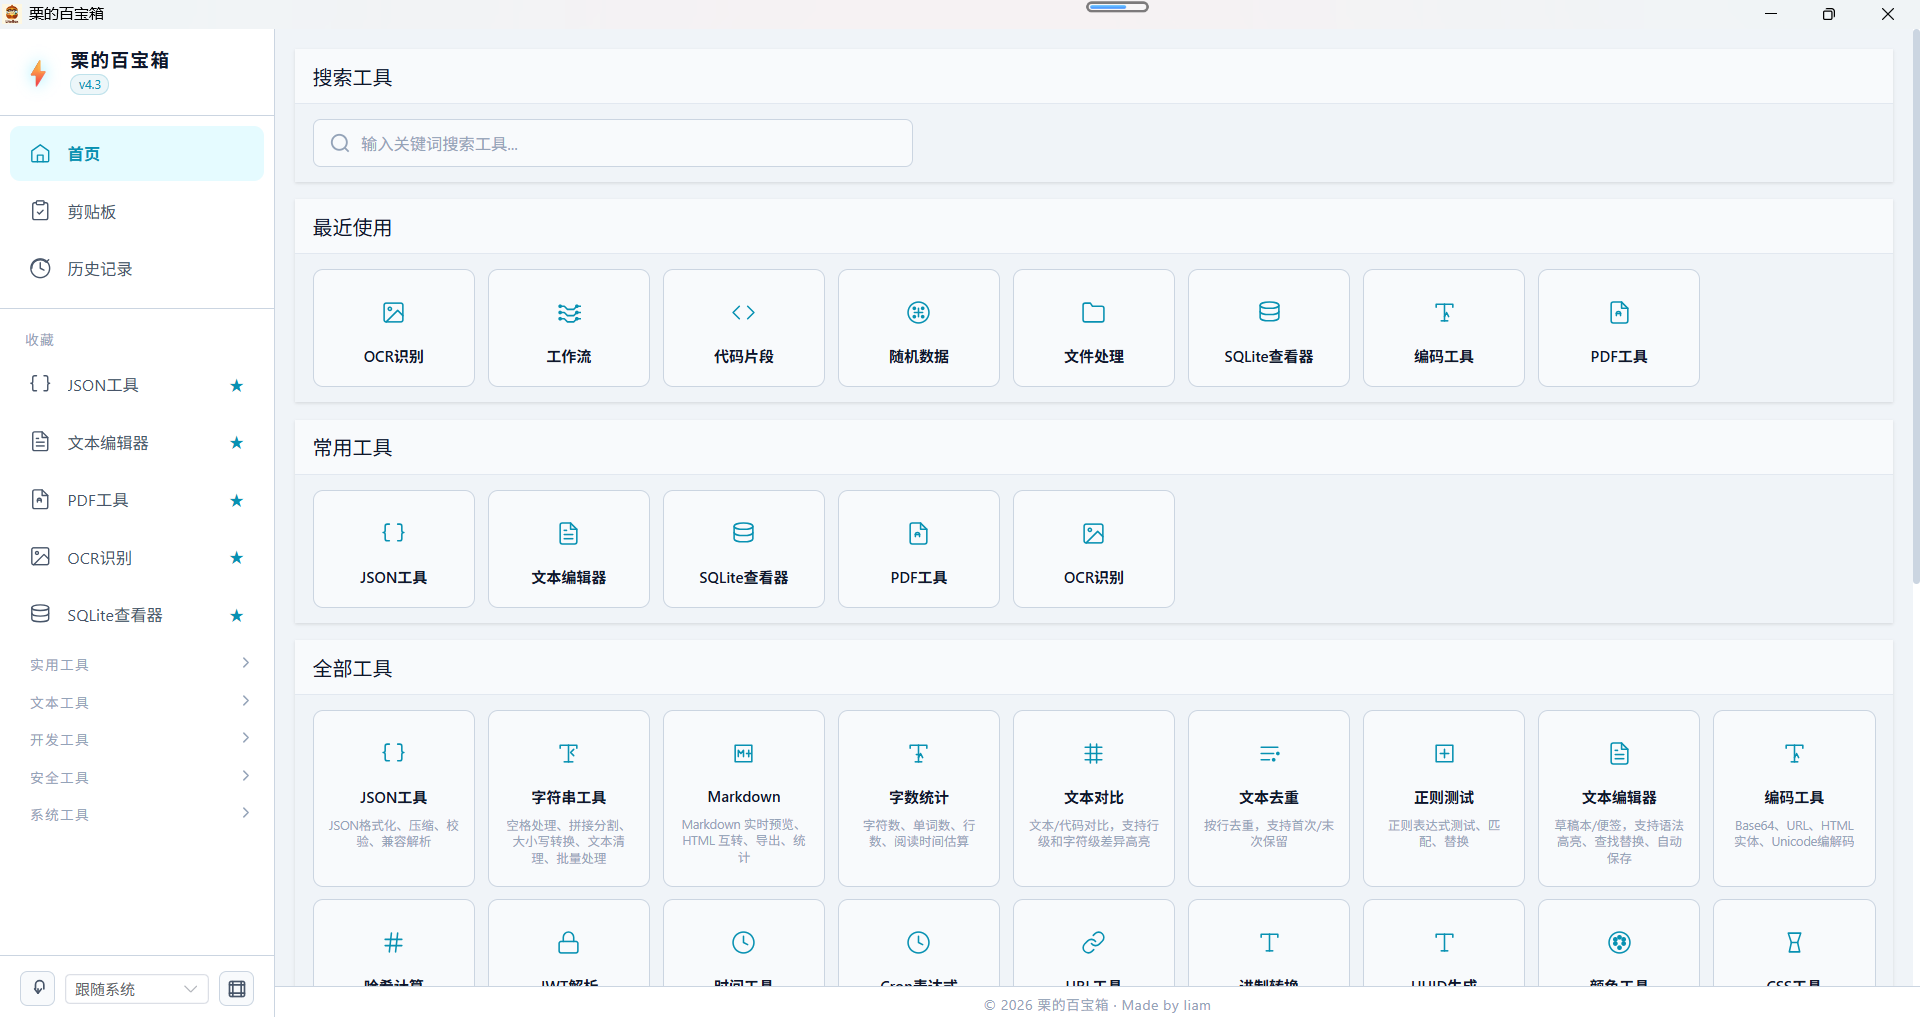
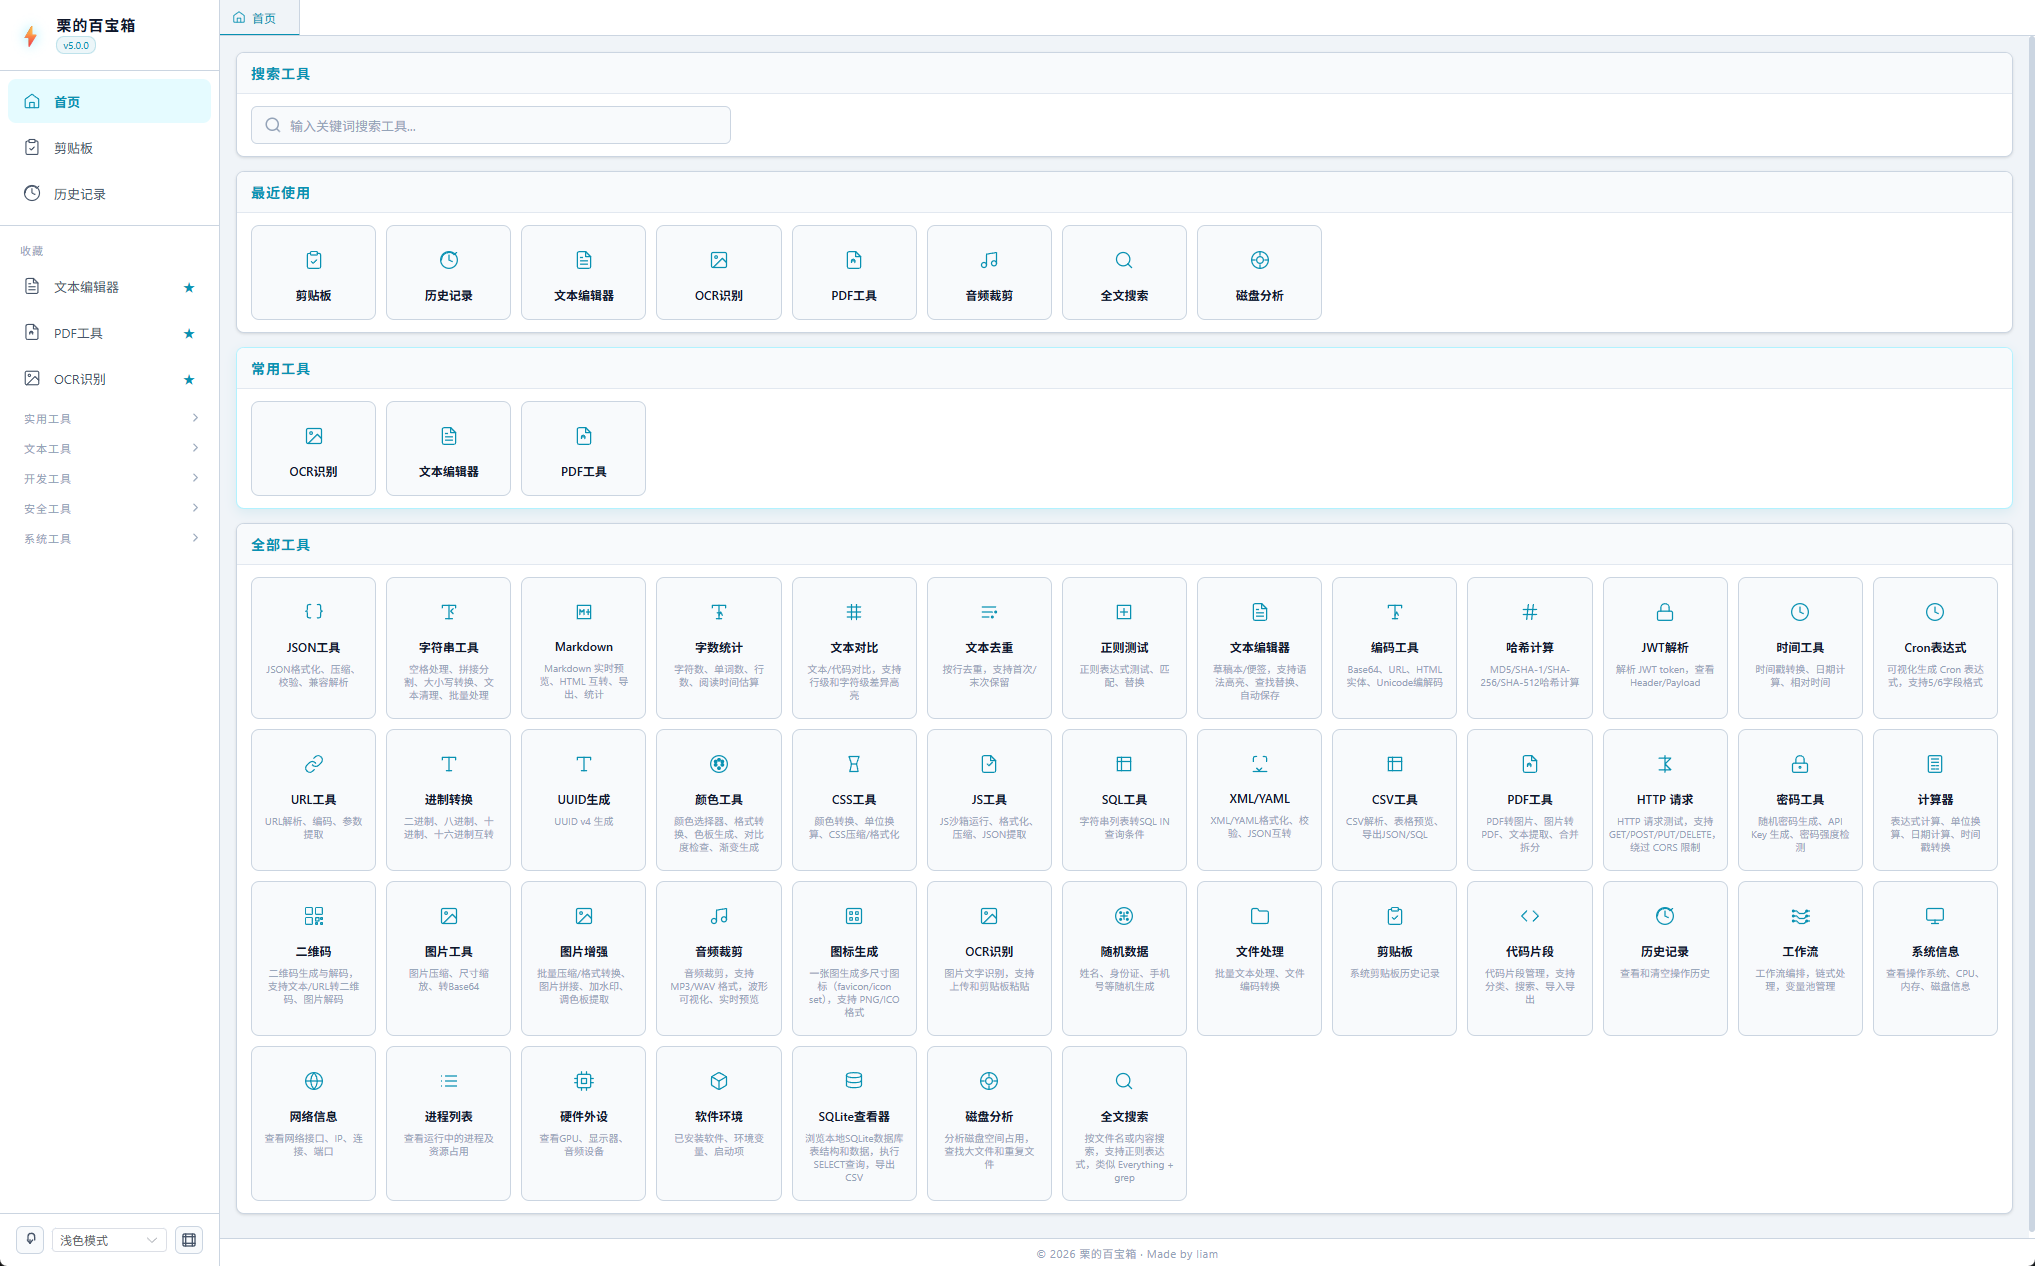
chore(release): bump version to 5.0.0 and update docs
- 更新README.md中的工具列表和版本日志
- 新增RELEASE_NOTES.md编写v5.0完整发布说明
- 更新两张截图预览文件
- 同步更新package.json版本号

diff --git a/RELEASE_NOTES.md b/RELEASE_NOTES.md
@@ -1,0 +1,105 @@
+# 发布说明
+
+---
+
+## 🚀 LitoBox v5.0 发布说明
+
+### 🔄 从 v4.3 到 v5.0 更新内容
+
+#### ✨ 新增工具
+
+- **音频裁剪工具** (v5.0) — 支持 MP3/WAV 单段裁剪，Canvas 波形可视化 + 滑块拖拽，Web Audio API 实时预览，ffmpeg 运行时探测加速，自定义导出路径，裁剪进度条展示
+- **模板拼图** (v4.9) — CSS Grid 预设布局模板 + 点击交换，10 种布局模板、图片缩放/平移、透明背景
+- **图标生成器** (v4.8) — 一张图生成多尺寸 PNG 图标和 .ico 文件，支持 Favicon / App Icon 预设
+- **全文搜索工具** (v4.6) — 文件名/内容双模式搜索，正则表达式，进度取消，编码自动识别（UTF-8/GBK/UTF-16）
+- **磁盘空间分析器** (v4.3) — 文件夹大小下钻、大文件 Top N、按扩展名统计、重复文件检测（前64KB指纹），支持勾选文件入回收站删除
+
+#### 🔧 功能增强
+
+- **系统工具后台采集** (v4.7) — 系统信息/网络/进程/硬件/软件 5 个采集页改为后台线程采集，采集期间不卡 UI、可切换其他工具，完成后应用内通知提示，点击跳回原页
+- **进程 kill 与端口释放** (v4.4) — ProcessListView 加结束进程按钮，NetworkInfoView 监听端口加释放按钮，共享 kill_process 后端命令
+- **多 Tab 导航模式** (v4.5) — 顶部 Tab 栏、同时打开多个工具、KeepAlive 状态保留、右键菜单关闭其他/全部、LRU 上限 8 个
+- **侧边栏版本号动态读取** (v4.7) — 版本号从 package.json 动态读取，无需手动维护
+- **图片增强工具** (v4.9) — 批量压缩转换、拼接、水印和调色板提取
+- **图片拼图重构** (v4.9) — 从 Fabric.js 迁移到原生 CSS Grid 模板方案，移除 fabric 依赖，拖拽交换改为点击交换
+
+#### 🐛 修复
+
+- 模板拼图首次选择图片后槽位未填充的问题
+- 模板匹配逻辑、预览清晰度、槽位内平移交互
+- 全文搜索防竞态 —— 搜索启动后主动查状态兜底，解决快速完成的搜索事件被过滤卡住
+- 取消检查改为 200ms 时间驱动，解决大目录下取消不响应
+- 二进制检测加扩展名优先，解决 PDF 卡顿
+- 去掉路径中的 `\\?\` UNC 前缀，展示更友好
+- 音频预览按钮即时响应 + 停止取消加载
+- 波形预览禁止右键菜单，修复预览重音问题
+- 移除预览播放 60 秒上限限制
+
+### 📋 核心特性
+
+- 🚀 零网络依赖 — 纯离线运行
+- 📦 便携免安装 — 单 exe 文件
+- 💾 数据本地化 — 不上传任何数据
+- ⚡ 极速响应 — 启动 ≤ 1s
+- 🧠 AI 驱动开发 — 全程零成本
+- 🎨 深色/浅色主题 — 自动跟随系统
+
+### 🛠 技术栈
+
+- Vue 3 + TypeScript + Vite
+- Tauri 2.0 (Rust)
+- Element Plus
+- SQLite + Pinia
+- Symphonia + Hound + LAME (音频处理)
+
+## 如果提示安装 WebView2
+
+- 下载 MicrosoftEdgeWebView2RuntimeInstallerX64.exe，使用管理员方式安装；相关文件在 v3.1 版本下面
+---
+
+## 🚀 LitoBox v4.3 发布说明
+
+### 🔄 从 v3.1 到 v4.3 更新内容
+
+#### ✨ 新增工具
+
+- **磁盘空间分析器** (v4.3) — 文件夹大小下钻、大文件 Top N、按扩展名统计、重复文件检测（前64KB指纹），支持勾选文件入回收站删除
+- **SQLite 查看器** (v4.1) — 只读查询、表结构浏览、CSV导出、查询历史记录
+- **系统工具集** (v4.0) — 系统信息、网络信息、进程列表、硬件外设、软件环境
+- **计算器工具** (v3.2) — 表达式计算、单位换算(11类)、日期计算、时间戳转换
+
+#### 🔧 功能增强
+
+- **历史记录增强** (v3.1) — 完整数据存储、双击跳转恢复、参数还原
+- **文本编辑器** (v3.1) — CodeMirror 6 内核，语法高亮/查找替换/分类管理/自动保存
+- **PDF↔OCR 联动** (v3.2) — PDF转图后一键识别，结果支持编辑校正
+- **PDF 文本提取** (v4.2) — 保留段落换行，支持转 Markdown（文本提取+OCR双模式）
+- **OCR/PDF/QR 结果编辑** (v4.2) — 识别结果支持编辑校正
+
+#### 🎨 体验优化
+
+- 页面缓存 KeepAlive，切换更流畅
+- 编辑器明暗跟随系统主题
+- 侧边栏固定工具置顶功能
+- SQLite 数据持久化（v3.0）
+
+### 📋 核心特性
+
+- 🚀 零网络依赖 — 纯离线运行
+- 📦 便携免安装 — 单 exe 文件
+- 💾 数据本地化 — 不上传任何数据
+- ⚡ 极速响应 — 启动 ≤ 1s
+- 🧠 AI 驱动开发 — 全程零成本
+
+### 🛠 技术栈
+
+- Vue 3 + TypeScript + Vite
+- Tauri 2.0 (Rust)
+- Element Plus
+- SQLite + Pinia
+
+
+## 如果提示安装 WebView2
+
+- 下载 MicrosoftEdgeWebView2RuntimeInstallerX64.exe，使用管理员方式安装；相关文件在 v3.1 版本下面
+---

diff --git a/README.md b/README.md
@@ -80,18 +80,20 @@
 | **文本编辑器** | CodeMirror 6 内核，语法高亮/查找替换/分类管理/自动保存 |
 | **OCR识别** | 图片文字提取（PP-OCRv6）/表格识别/Markdown转换，结果支持编辑校正，支持 PDF 转图后一键识别 |
 | **PDF工具** | PDF 转图片/图片转 PDF/文本提取（保留换行）/转 Markdown/合并拆分，支持一键跳转 OCR 识别 |
-| **图片工具** | 压缩/尺寸缩放/转 Base64 |
+| **图片工具** | 批量压缩/尺寸缩放/转 Base64/图片增强/模板拼图（10种布局）/图标生成器 |
+| **音频裁剪** | MP3/WAV 裁剪，Canvas 波形可视化 + 滑块拖拽，Web Audio API 实时预览，ffmpeg 探测加速 |
+| **全文搜索** | 文件名/内容双模式搜索，正则表达式，进度取消，编码自动识别（UTF-8/GBK/UTF-16） |
 | **文件处理** | 批量文本处理/文件编码转换（UTF-8/GBK） |
 
 ### 系统工具
 
 | 工具 | 功能 |
 |------|------|
-| **系统信息** | 操作系统/CPU/内存/磁盘概览，使用率监控 |
-| **网络信息** | 网络接口/IP/MAC、活动 TCP 连接、监听端口、WiFi，监听端口支持释放（kill 占用进程） |
-| **进程列表** | 运行中进程查看，CPU/内存占用排序，搜索过滤，支持结束进程 |
-| **硬件外设** | GPU 型号/驱动/显存、显示器分辨率、音频设备 |
-| **软件环境** | 已安装软件列表、环境变量、开机启动项 |
+| **系统信息** | 操作系统/CPU/内存/磁盘概览，使用率监控，后台采集不卡 UI |
+| **网络信息** | 网络接口/IP/MAC、活动 TCP 连接、监听端口、WiFi，监听端口支持释放（kill 占用进程），后台采集不卡 UI |
+| **进程列表** | 运行中进程查看，CPU/内存占用排序，搜索过滤，支持结束进程，后台采集不卡 UI |
+| **硬件外设** | GPU 型号/驱动/显存、显示器分辨率、音频设备，后台采集不卡 UI |
+| **软件环境** | 已安装软件列表、环境变量、开机启动项，后台采集不卡 UI |
 | **磁盘分析** | 文件夹大小下钻、大文件 Top N、按扩展名统计、重复文件检测（前64KB指纹），支持勾选文件入回收站删除 |
 
 ### 系统 & 辅助
@@ -307,7 +309,7 @@ Vibe Coding 不是一次性的对话，而是**持续进化的工程实践**：
 | V4.7 | ✅ | 系统工具后台采集：系统信息/网络/进程/硬件/软件 5 个采集页改为后台线程采集，采集期间不卡 UI、可切换其他工具，完成后应用内通知提示，点击跳回原页 |
 | V4.8 | ✅ | 图标生成器：一张图生成多尺寸 PNG 图标和 .ico 文件，支持 Favicon / App Icon 预设 |
 | V4.9 | ✅ | 模板拼图：CSS Grid 预设布局模板 + 原生拖拽交换，支持 10 种模板、图片缩放/平移、透明背景 |
-| V5.0 | ✅ | 音频裁剪工具：支持 MP3/WAV 单段裁剪，Canvas 波形可视化 + 滑块拖拽，Web Audio API 实时预览 |
+| V5.0 | ✅ | 音频裁剪工具：支持 MP3/WAV 单段裁剪，Canvas 波形可视化 + 滑块拖拽，Web Audio API 实时预览，ffmpeg 运行时探测加速，自定义导出路径，裁剪进度条展示 |
 
 ---
 
